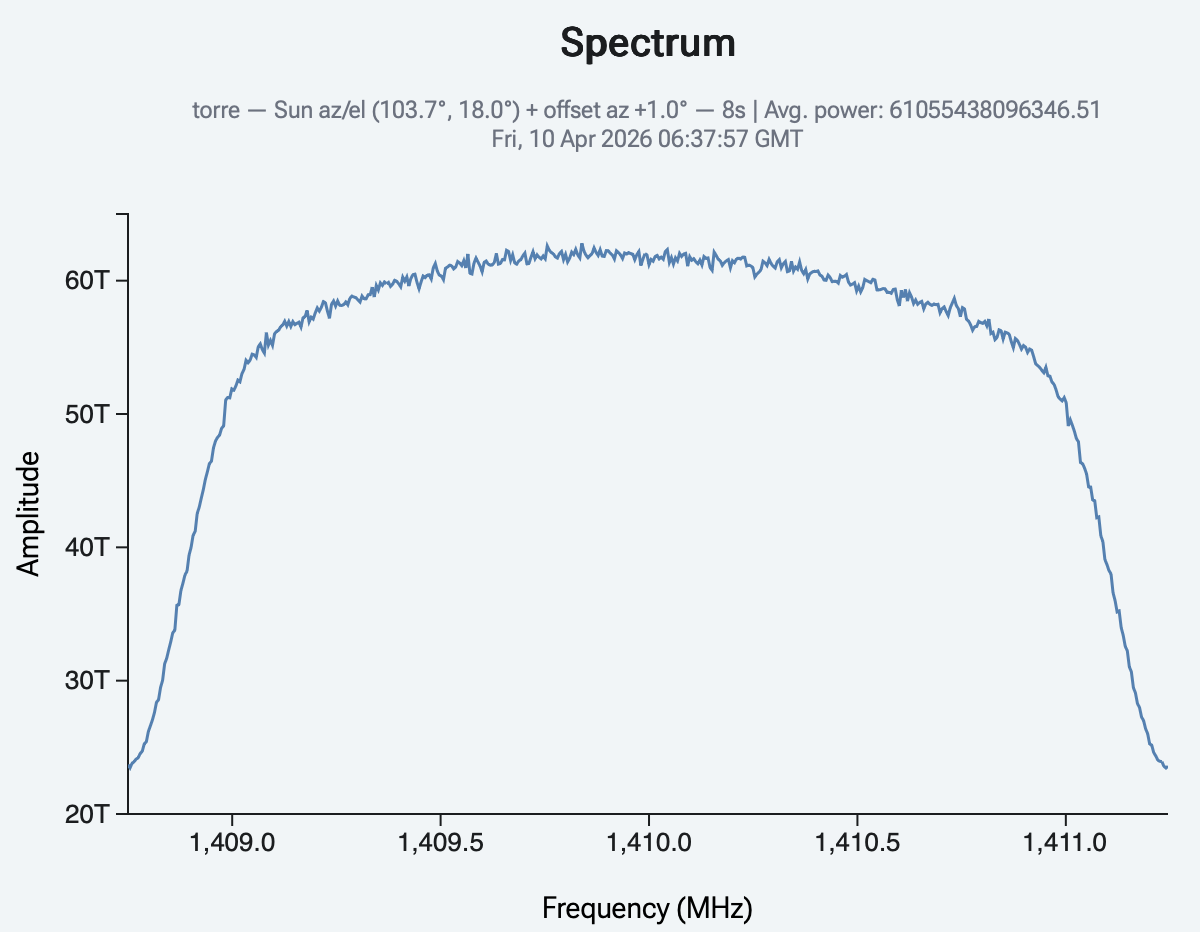
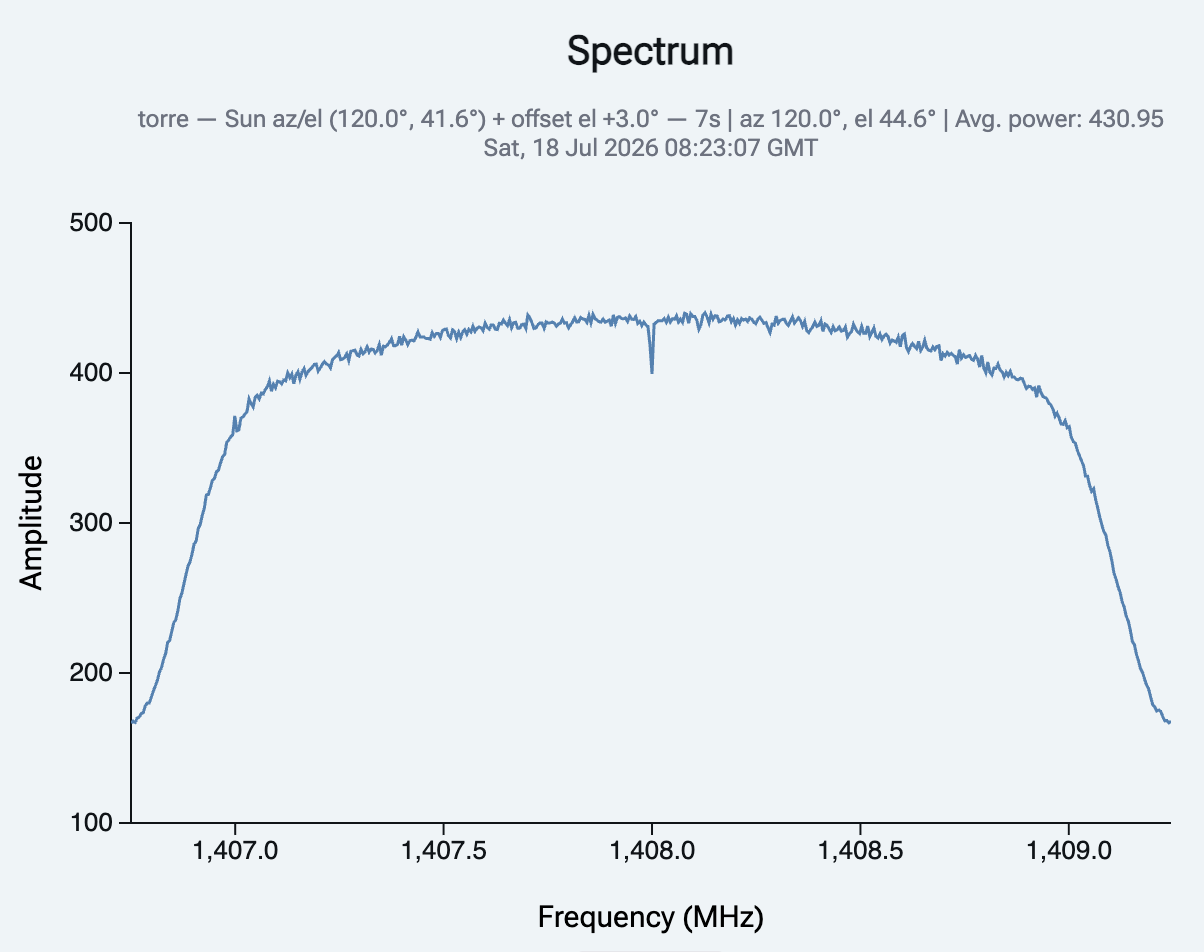
Update the Sun-lab example spectrum and explain how to read it
New sunex.png (elevation offset +3°, average power 430.95). The
caption now points out the two values to note down for each
measurement, and explains the narrow dip at the centre frequency:
the DBSRX2 is a direct-conversion receiver, so band centre maps to
DC at baseband, and the DC-offset correction we enable in
salsa_telescope.rs notches out that bin.

Claude-Session: https://claude.ai/code/session_0121WWae5AjEW8jxz349F93r

diff --git a/assets/experiments-sun.html b/assets/experiments-sun.html
@@ -221,8 +221,12 @@
     telescope slewing time. Plan your observation slot accordingly.</p>
 
     <figure>
-      <img src="/sunex.png" alt="A spectrum of the Sun with azimuth offset +1 deg" class="rounded-lg w-[30rem]">
-      <figcaption class="text-sm text-gray-500 mt-1">Fig. 2.1 — A spectrum of the Sun with azimuth offset +1 deg. The Avg. power value and offset should be noted.</figcaption>
+      <img src="/sunex.png" alt="A spectrum of the Sun with elevation offset +3 deg" class="rounded-lg w-[30rem]">
+      <figcaption class="text-sm text-gray-500 mt-1">Fig. 2.1 — A spectrum of the Sun recorded with an elevation offset of +3°.
+      The two numbers to record for each measurement appear in the chart subtitle: the offset (el +3.0°) and the
+      average power (430.95). The narrow dip at the centre frequency is an instrumental artifact — the
+      direct-conversion receiver's DC bin, notched out by the digitizer's DC-offset correction — not a feature
+      of the Sun.</figcaption>
     </figure>
 
   </details>

diff --git a/assets/experiments-sun.sv.html b/assets/experiments-sun.sv.html
@@ -221,8 +221,11 @@
     teleskopets rörelsetid. Planera din bokade tid därefter.</p>
 
     <figure>
-      <img src="/sunex.png" alt="Ett spektrum av solen med azimutoffset +1 grad" class="rounded-lg w-[30rem]">
-      <figcaption class="text-sm text-gray-500 mt-1">Fig. 2.1 — Ett spektrum av solen med azimutoffset +1 grad. Medeleffektvärdet och offseten bör antecknas.</figcaption>
+      <img src="/sunex.png" alt="Ett spektrum av solen med elevationsoffset +3 grader" class="rounded-lg w-[30rem]">
+      <figcaption class="text-sm text-gray-500 mt-1">Fig. 2.1 — Ett spektrum av solen inspelat med elevationsoffset +3°.
+      De två värden som ska antecknas för varje mätning syns i diagrammets undertext: offseten (el +3,0°) och
+      medeleffekten (430,95). Den smala dippen vid centerfrekvensen är en instrumentartefakt — mottagarens DC-bin,
+      bortfiltrerad av digitaliserarens DC-korrektion — och inget som kommer från solen.</figcaption>
     </figure>
 
   </details>